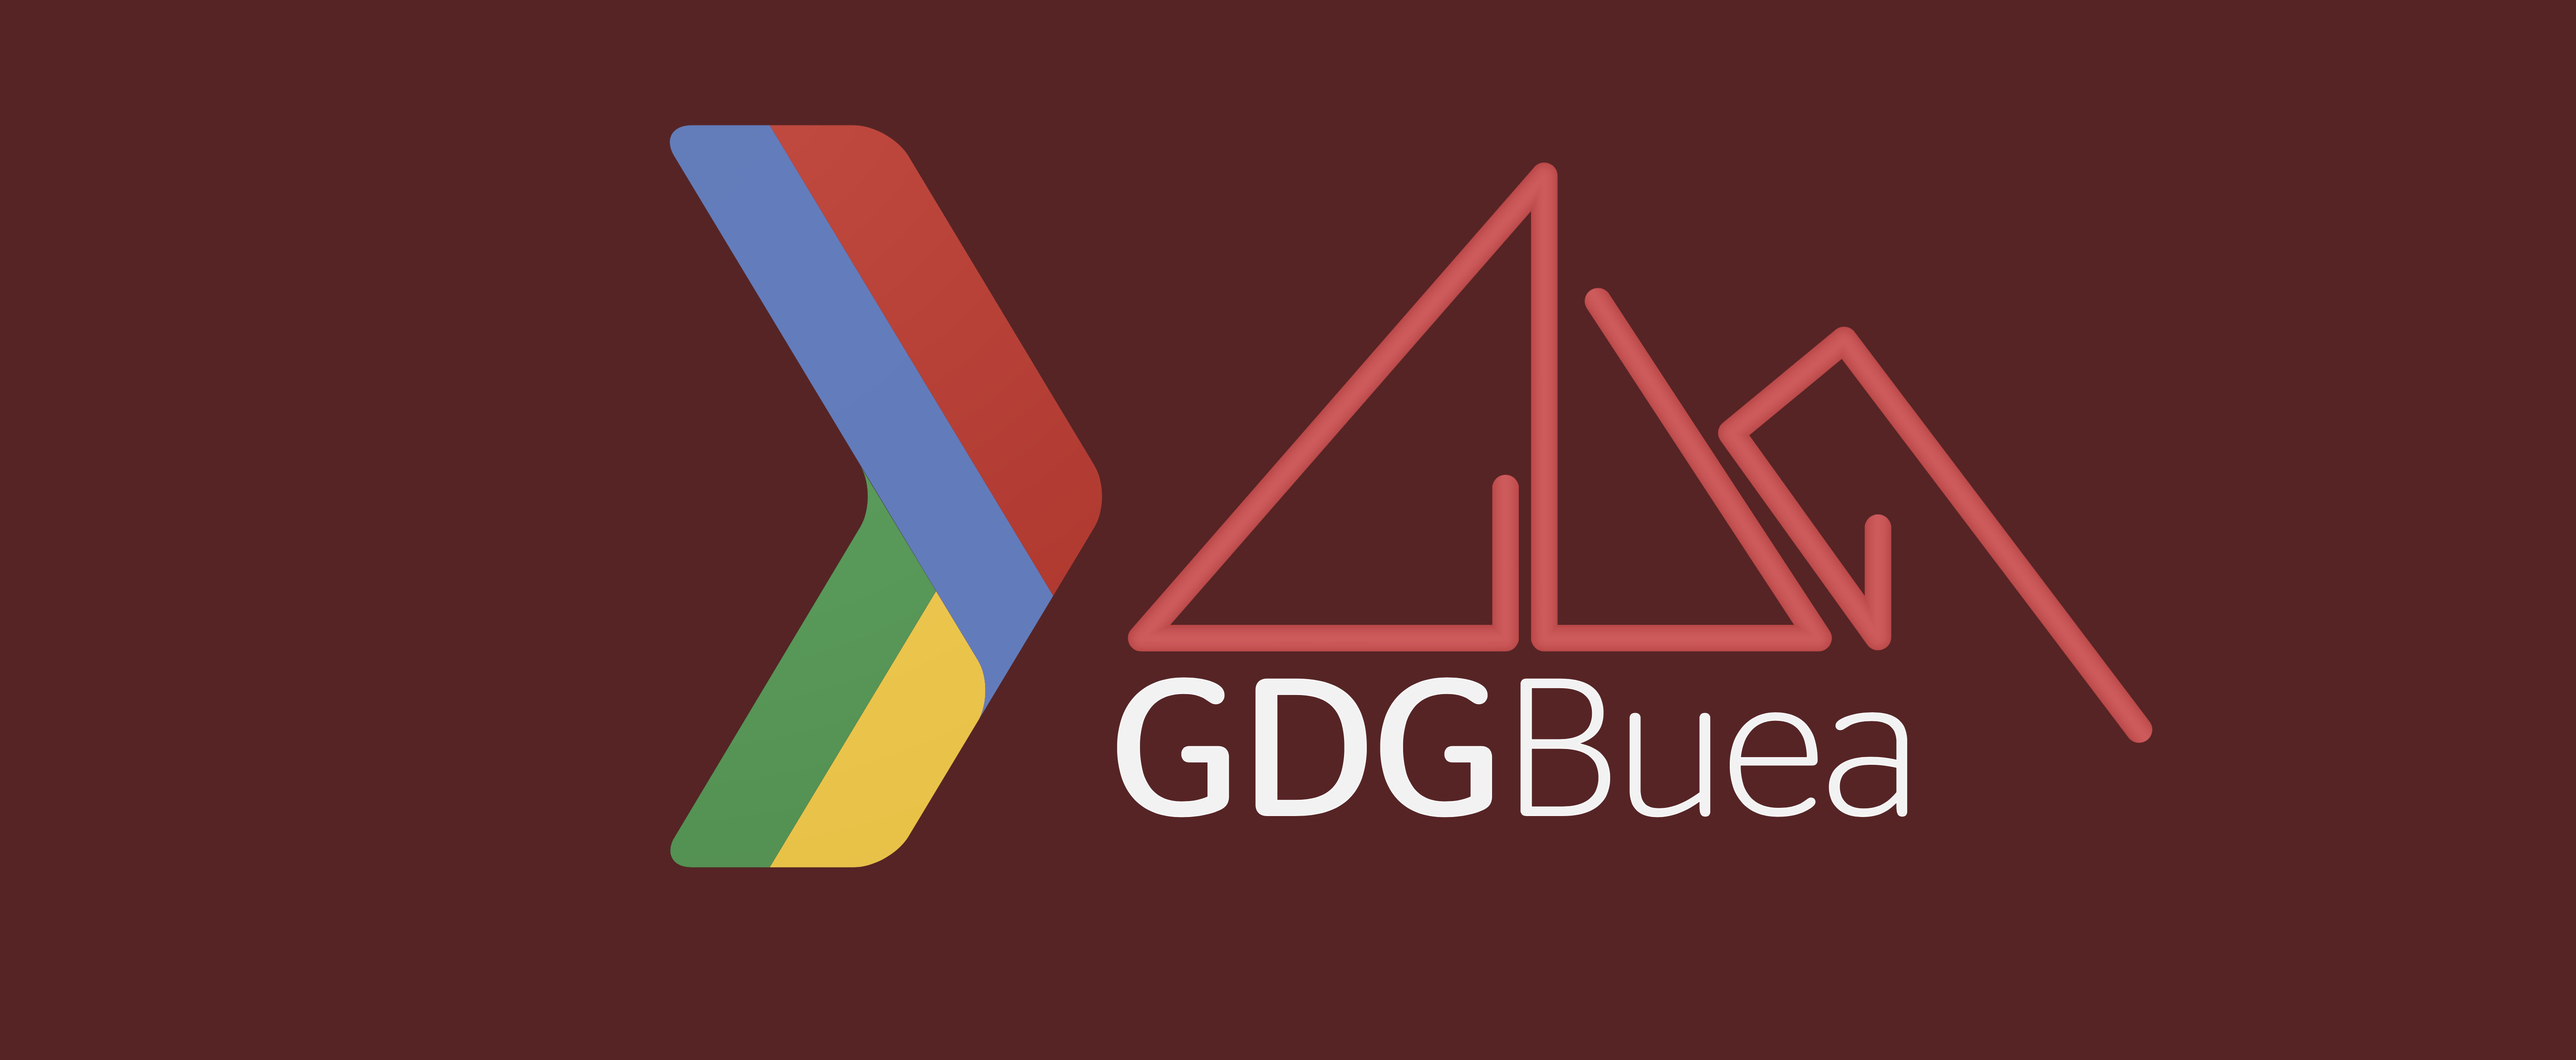
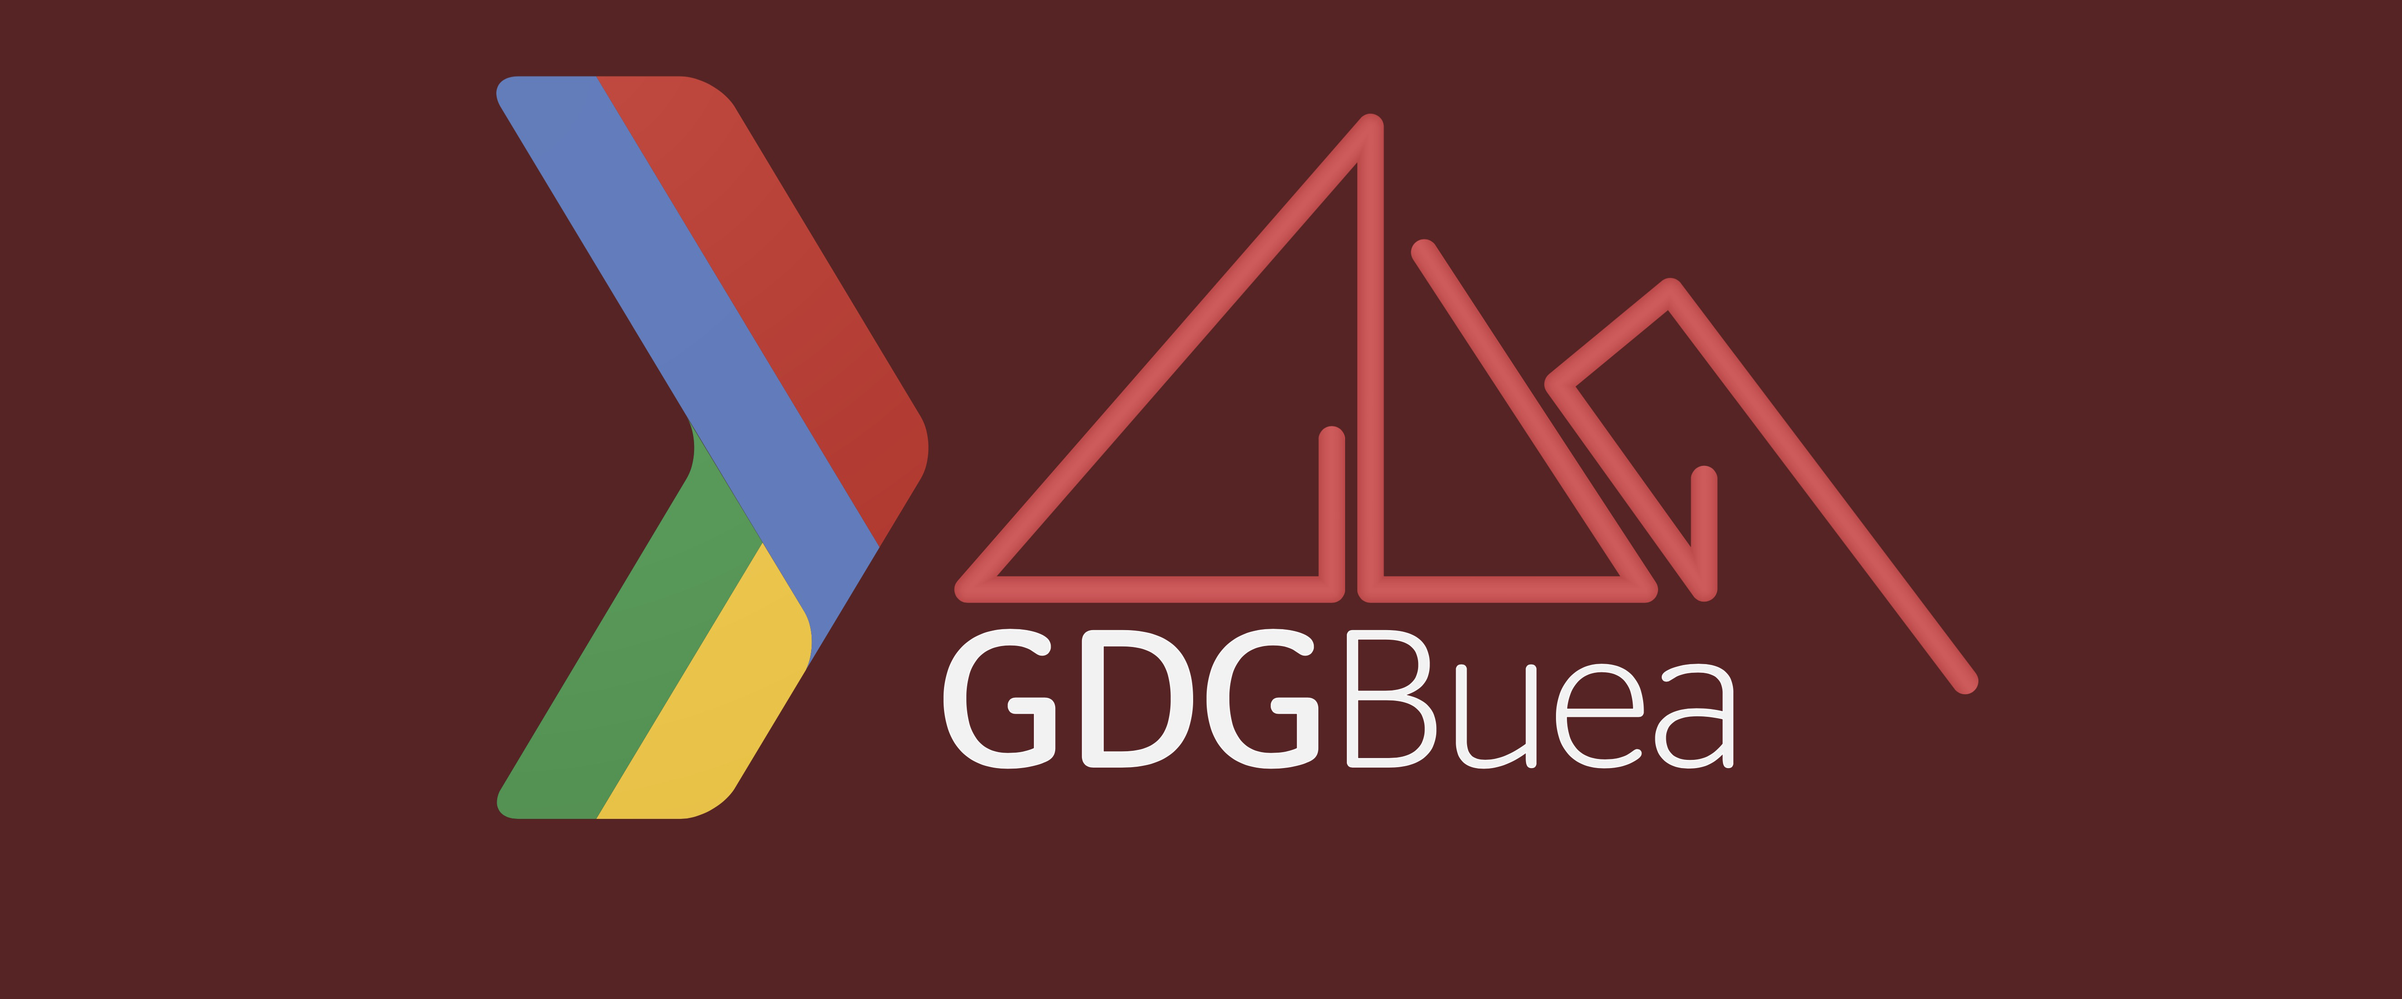
Fixed caption

Changed region(s): [[0.187, 0.0618, 0.8414, 0.8338]]

diff --git a/index.html b/index.html
@@ -58,7 +58,7 @@
             float: right;
         }
         .top-section-hero .jumbotron{
-            top: 93%;
+            top: 90%;
         }
 
         .top-section-hero{
@@ -120,9 +120,9 @@
 </header>
     <div class="content-wrapper">
     <div class="jumbotron">
-        <div class="animated hiding" data-animation="fadeInDown" data-delay="500">
+        <div class="animated hiding" data-animation="fadeInDown" data-delay="50">
 
-            <h1>GDG DevFest<span id="typeout-text" class="hidden-xs"></span><span class="typeout-fallback">Silicon Valley</span>2014</h1>
+            <h1><span id="typeout-text" class="hidden-xs"></span><span class="typeout-fallback">A Community That Codes</span></h1>
             <!-- <p>November 16, 2014</p>
 
             <a href=" https://docs.google.com/forms/d/1iKhNPl72_nJZKd_0Z1XRmhuKMdrzr6GgdhwQkZg-qvg/viewform " class="btn btn-primary waves-effect waves-button waves-light waves-float" target="_blank">Become a speaker</a>
@@ -516,7 +516,7 @@
                 $(function () {
                     if ($(window).width() > 767) {
                         $("#typeout-text").typed({
-                            strings: ["", "SiliconValley"],
+                            strings: ["A Community", " That Codes"],
                             typeSpeed: 150,
                             backDelay: 900,
                             loop: true
